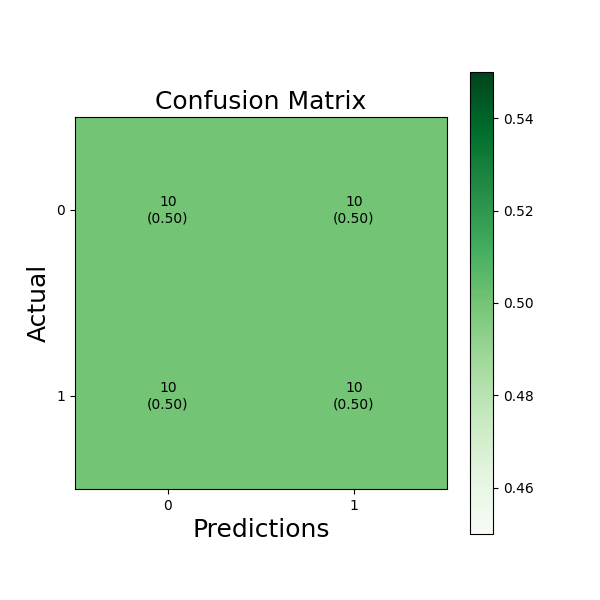
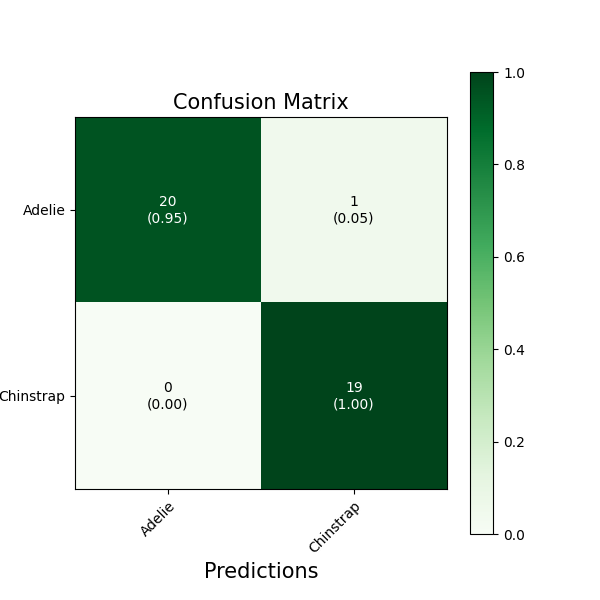
reviewed the whole tasks

diff --git a/tasks/task2/adaline.py b/tasks/task2/adaline.py
@@ -91,11 +91,10 @@ def run_adaline(class1, class2, x1, x2, ep, bs, rate, mse):
             tn += 1
 
     acc = cnt / len(testing_df)
-
-    # Classes list
-    classes = ['Adelie', 'Gentoo', 'Chinstrap']
-
-    conf_matrix = np.zeros([3, 3], dtype=int)
-
+    conf_matrix = np.array([[tp, fp],
+                            [fn, tn]])
+    classes = [class1, class2]
     visualization.visualize(test1, test2, x1, x2, w0, w1, w2)
     show_output(conf_matrix, classes, acc)
+    # Classes list
+

diff --git a/tasks/task3/bonus/main.py b/tasks/task3/bonus/main.py
@@ -1,7 +1,7 @@
 from task3.bonus.backpropagation import run_bonus_back
 from gui.gui_input import GUI
 
-# gui = GUI(task=4)
-run_bonus_back(2, [32, 16], 10, 1, 1, 0.01)
+gui = GUI(task=4)
+#run_bonus_back(2, [32, 16], 10, 1, 1, 0.01)
 
 

diff --git a/tasks/task3/bonus/layer.py b/tasks/task3/bonus/layer.py
@@ -1,6 +1,6 @@
 import numpy as np
 from task3.bonus.neuron import Neurons
-from neuron import calc_net_vectorized
+
 
 
 class Layer:
